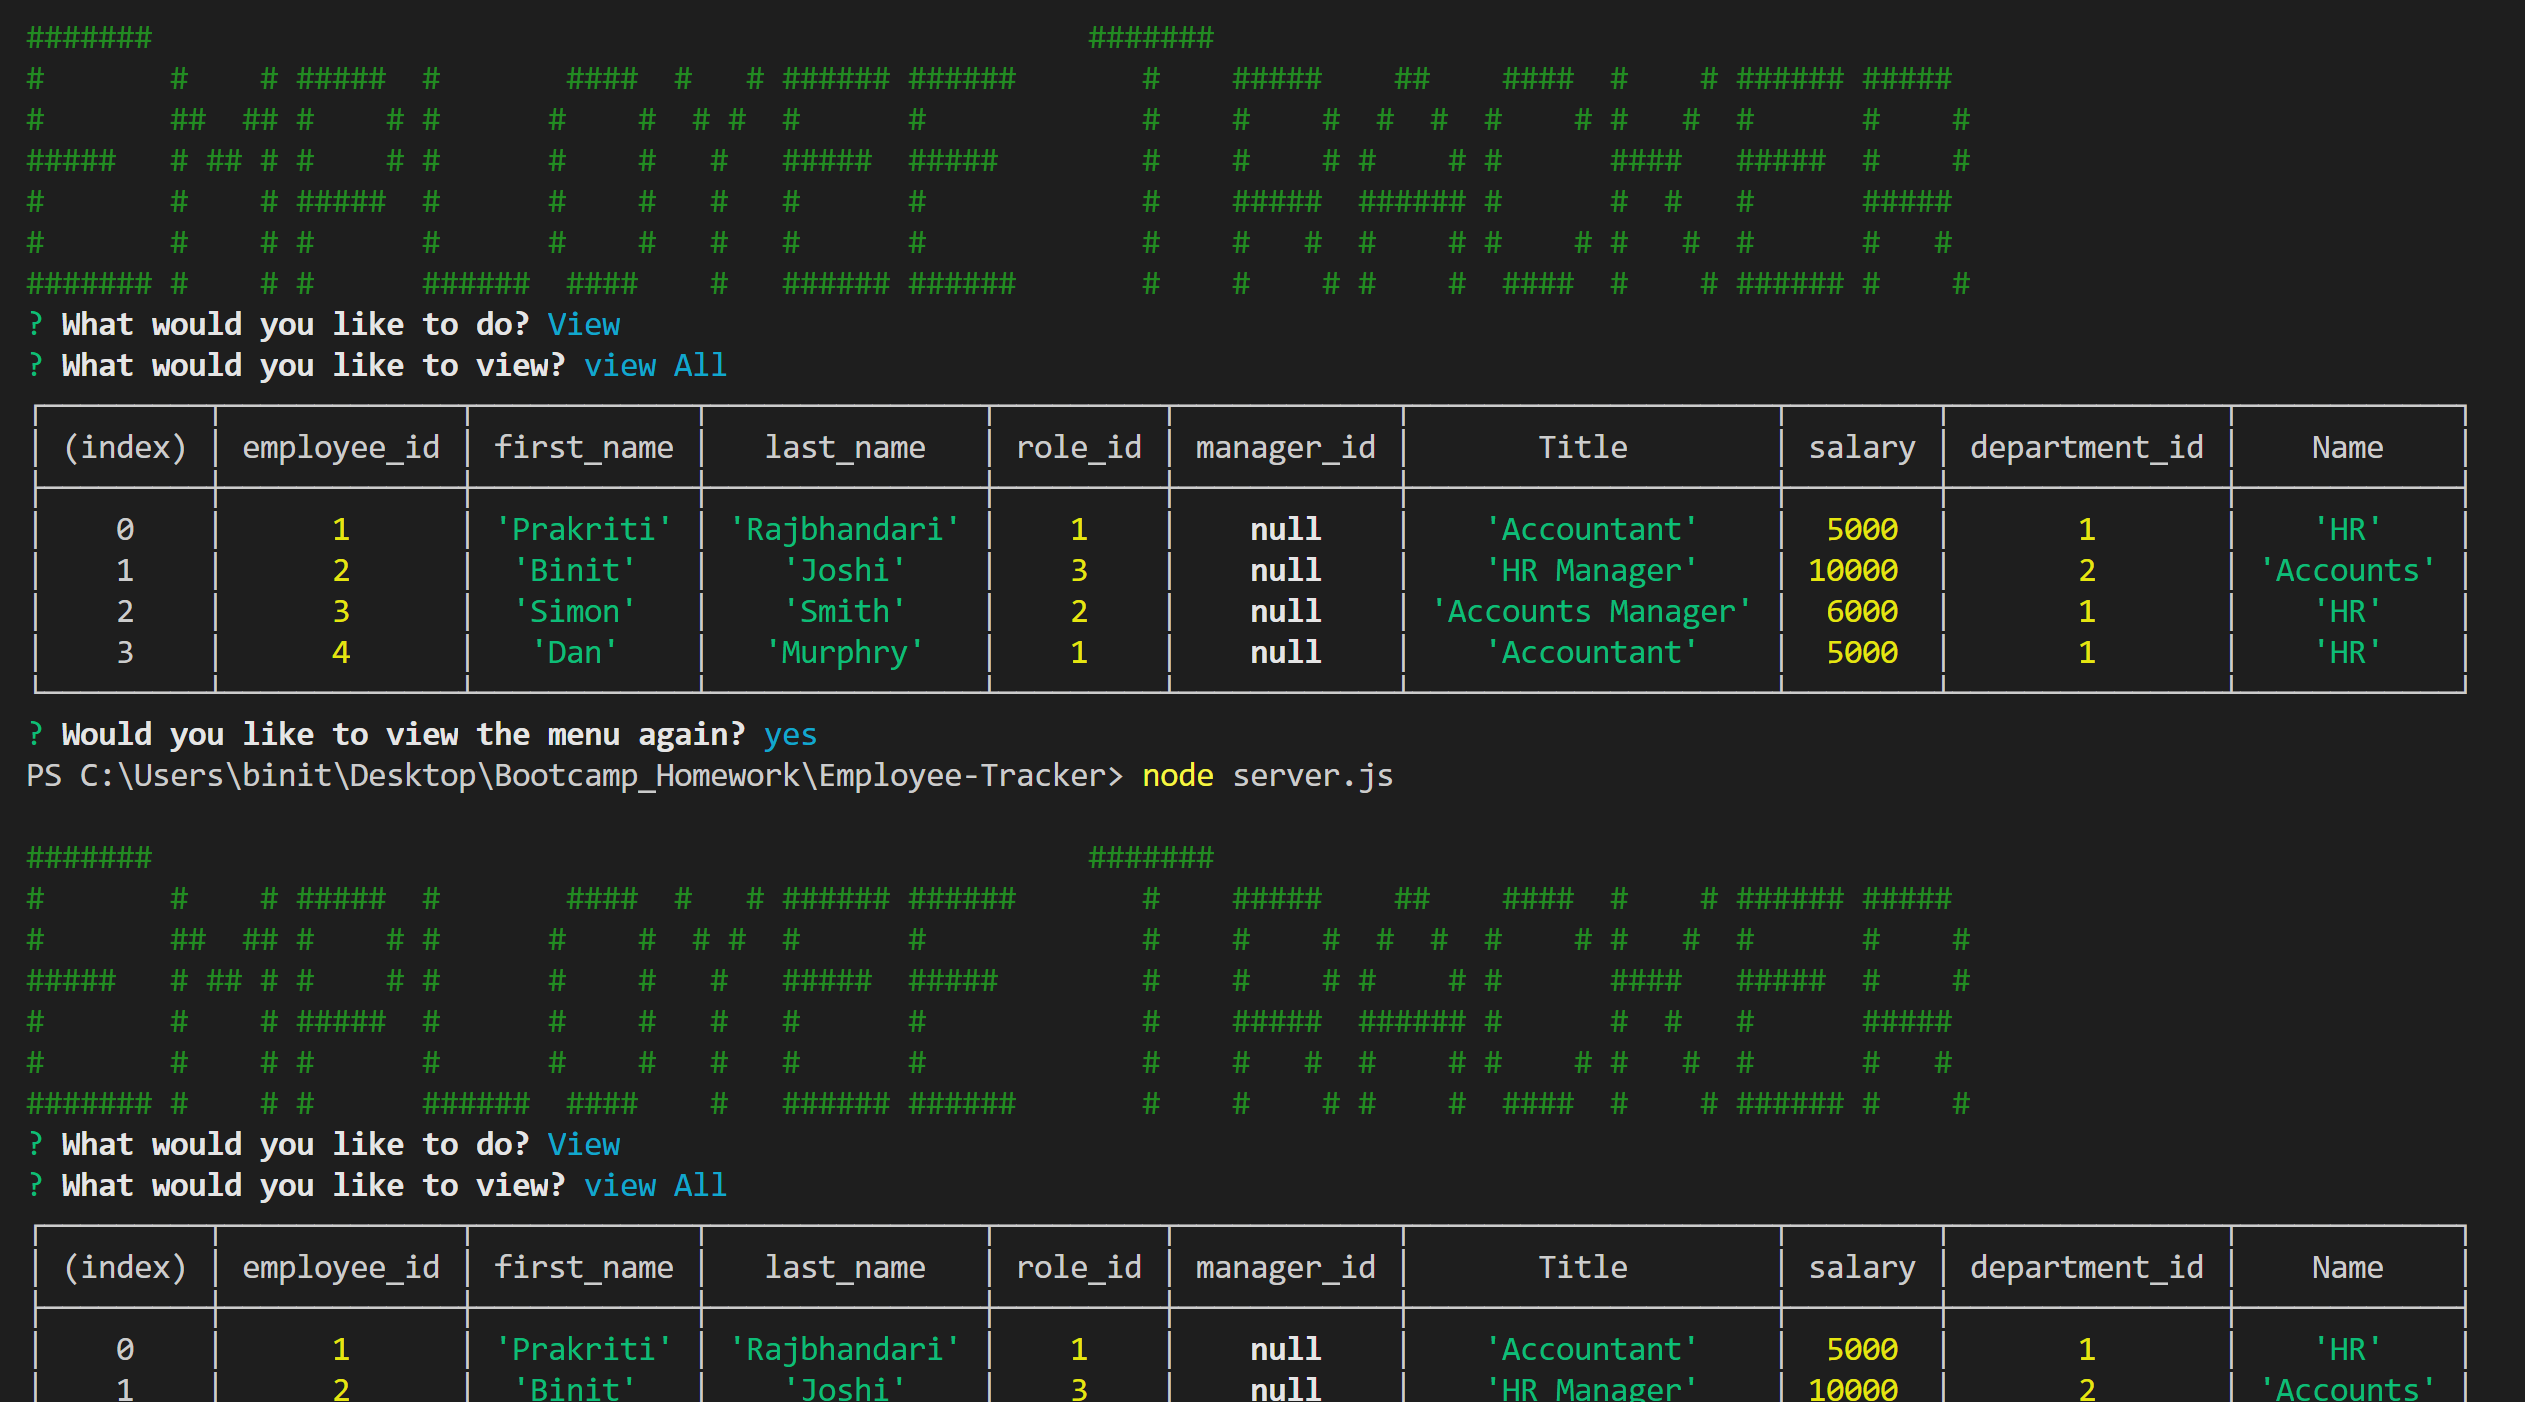
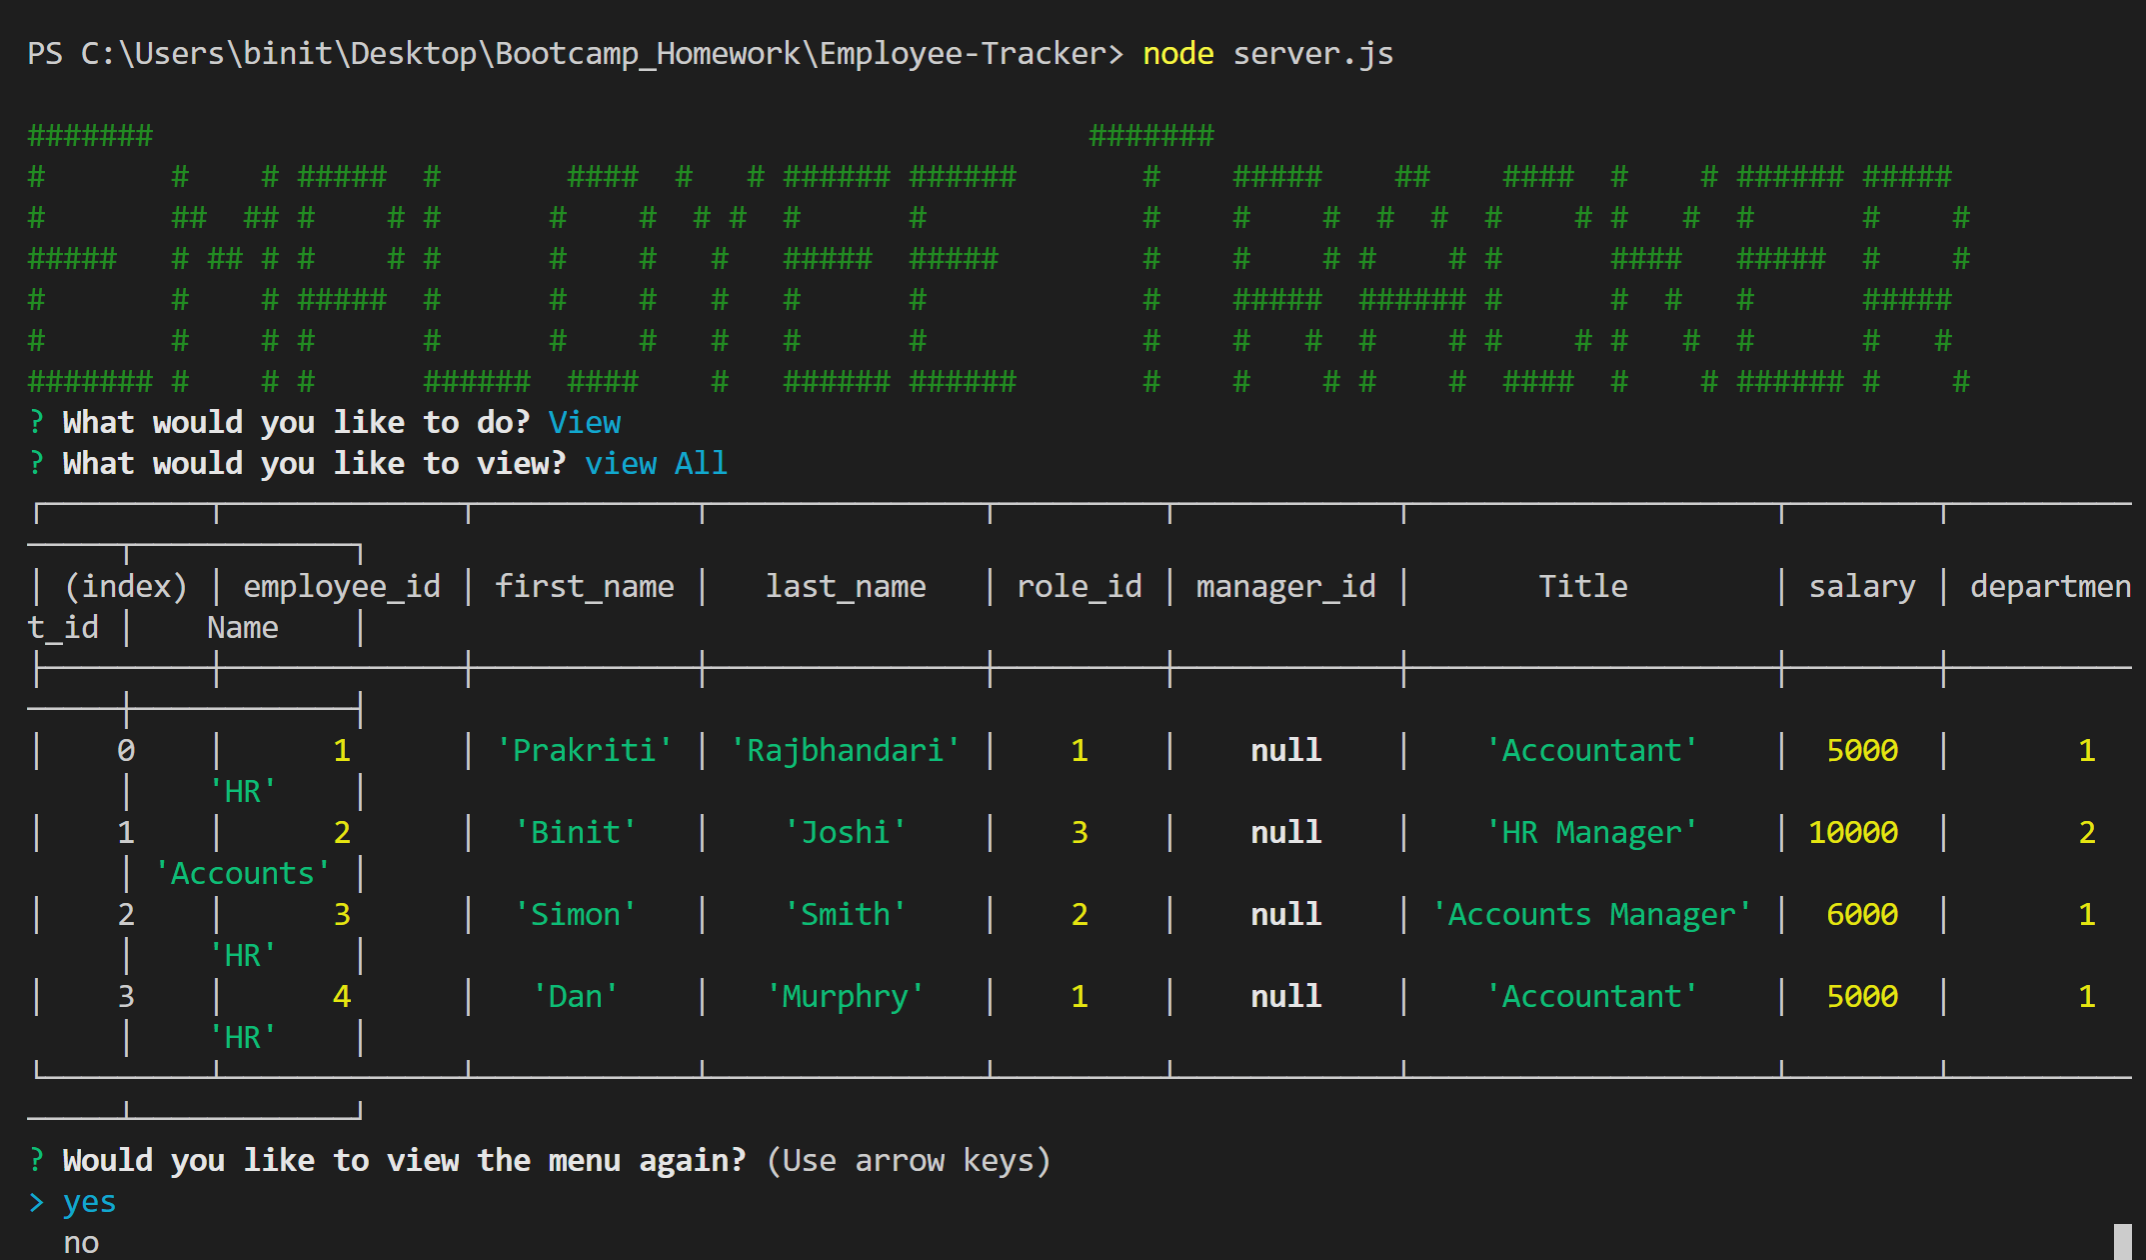
update readme

diff --git a/README.md b/README.md
@@ -35,6 +35,10 @@ Run 'node server.js'
 
 <img src="./Image/view.PNG" alt="View menu "/>
 
+# Example of the working app
+
+<img src="./Image/Capture.PNG" alt="working app example "/>
+
 ## Authors
 
 - **Prakriti Rajbhandari** - [PrakritiRajbhandari](https://github.com/PrakritiRajbhandari)
